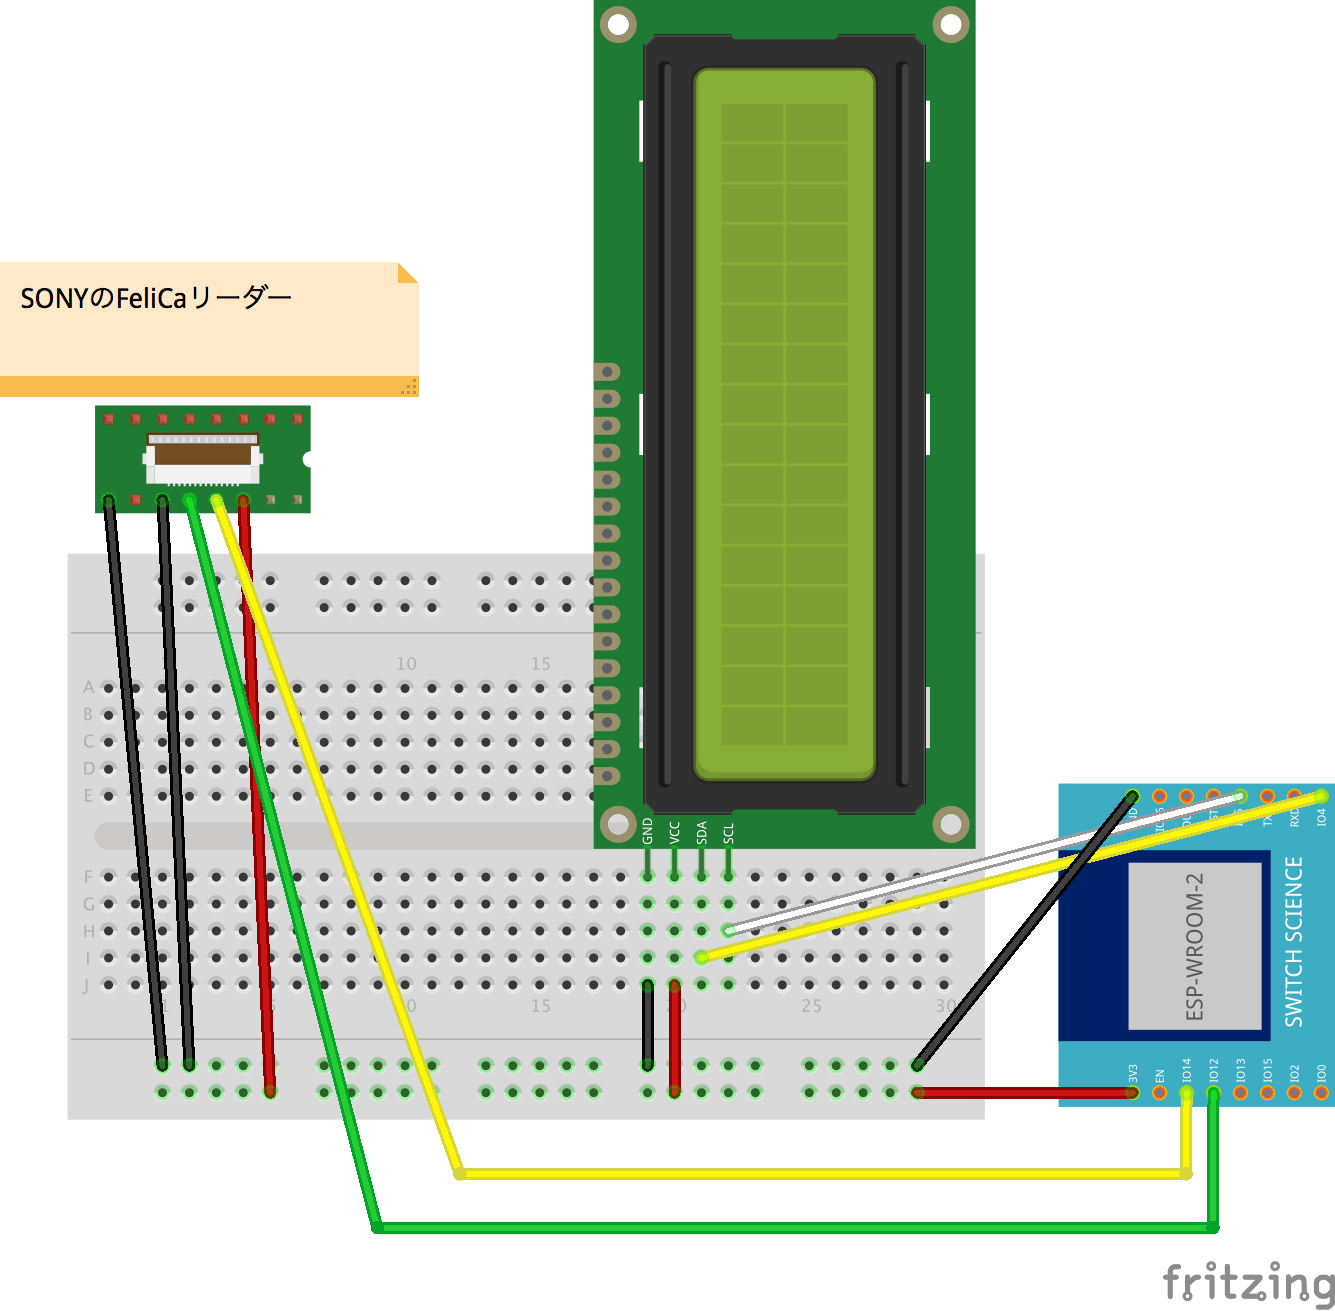
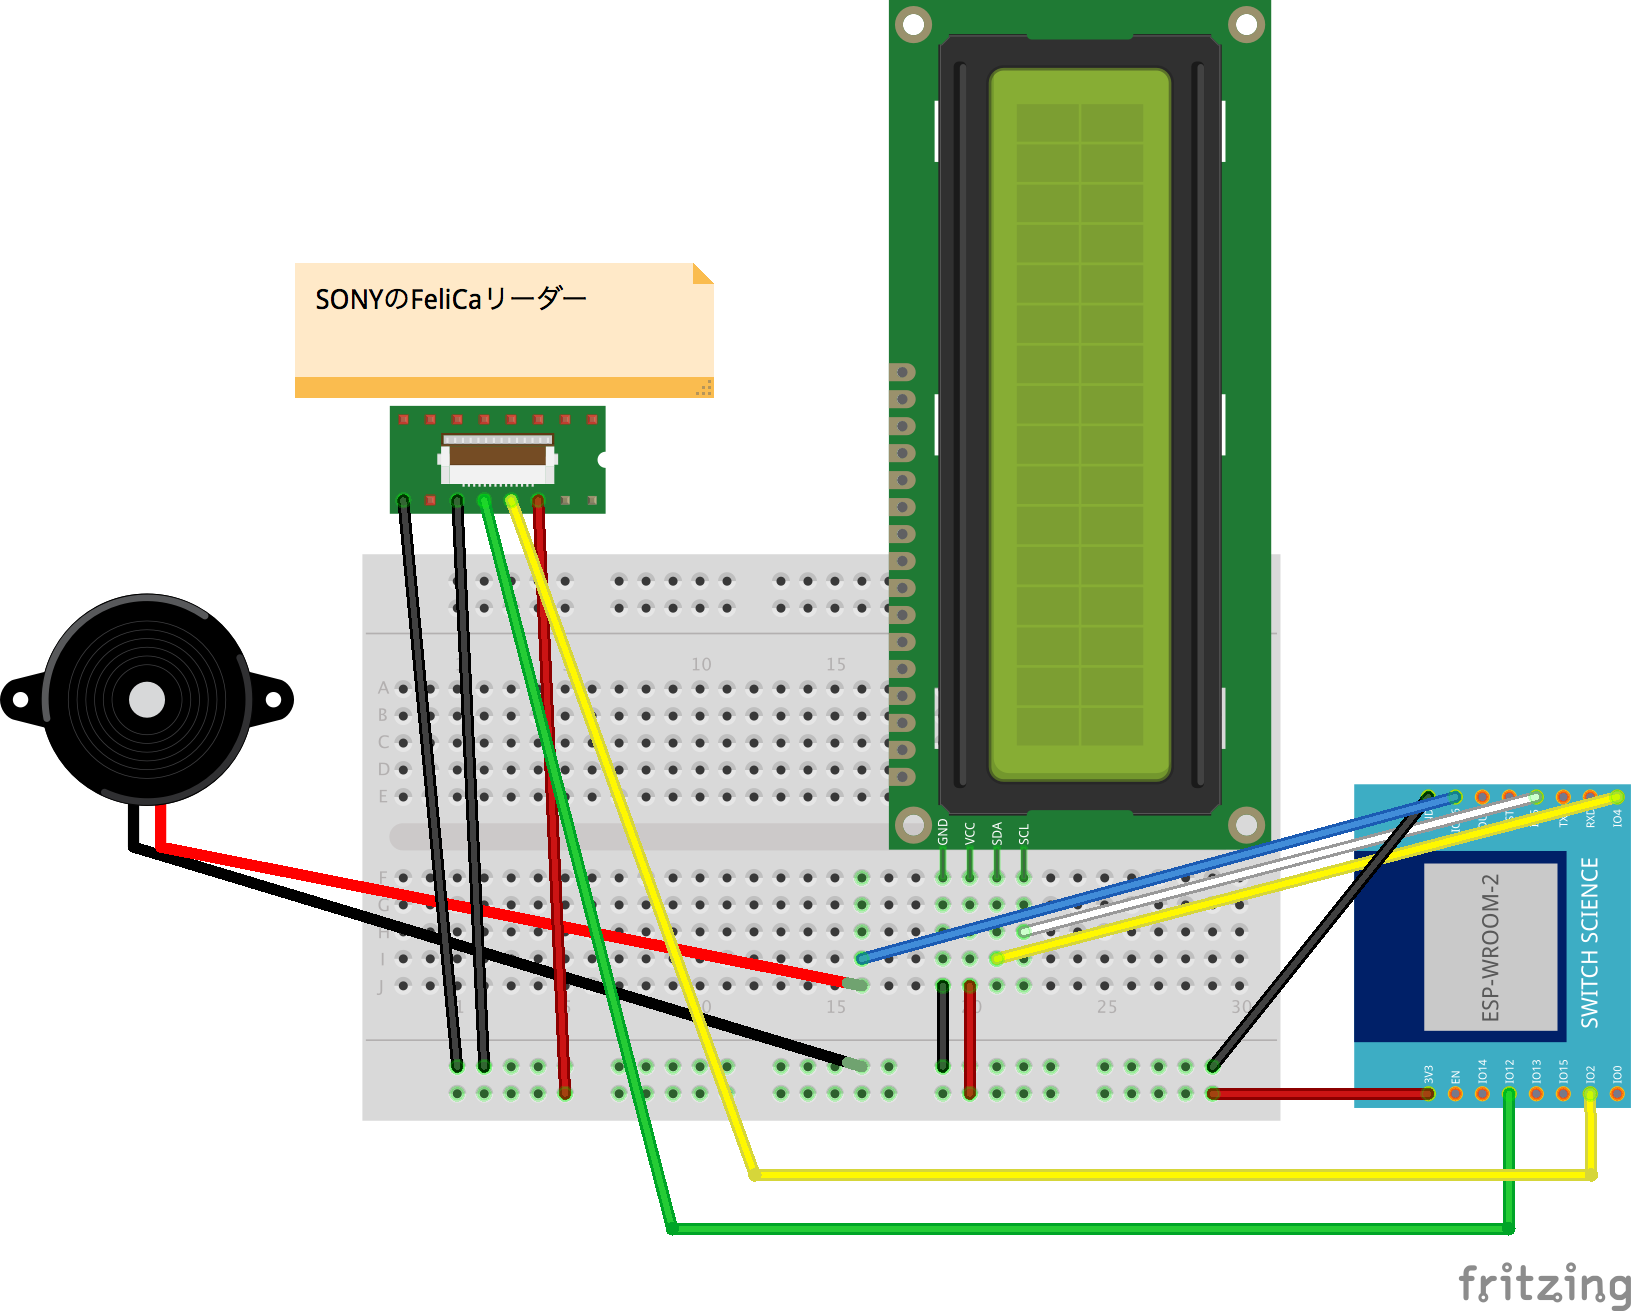
スピーカーとボタンを追加した

diff --git a/RCS620S.cpp b/RCS620S.cpp
@@ -30,7 +30,7 @@
 /* --------------------------------
  * Macro
  * -------------------------------- */
-static const int RXPin = 12, TXPin = 14;
+static const int RXPin = 12, TXPin = 2;
 SoftwareSerial ss(RXPin, TXPin, false, 256);
 
 /* --------------------------------
